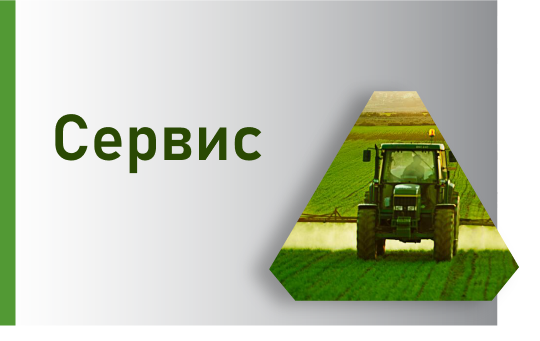
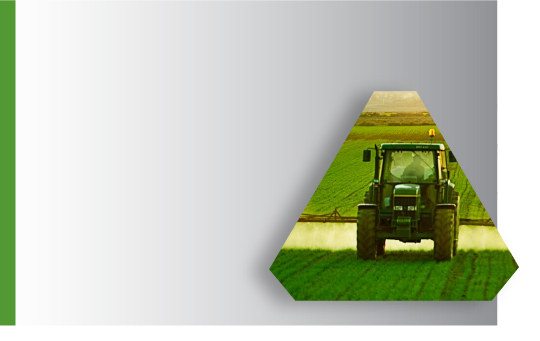
fix

Changed region(s): [[0.0889, 0.3226, 0.5037, 0.5279]]

diff --git a/index.html b/index.html
@@ -24,19 +24,22 @@
     
     <section class="hero">
         <div class="hero-container">
-<img src="/img/hero-img.jpg" alt="agro-perec" class="hero-img">
+<h3 class="hero-text">Ваш надежный партнер
+  в сельском хозяйстве!</h3>
+  <h3 class="hero-text-2">Официальный дистрибьютер компании Lidea</h3>
+  <a href="#" class="button-call">Заказать звонок</a>
         </div>
     </section>
-    <section class="cards">
-      <div class="header-cards">
-        <a href="#" class="header-cards-link"><h3>Главная / О компании</h3></a>
-      </div>
+    <section class="cards">      
         <div class="cards-wrap-all">
             <div class="cards-wrap">
+              <div class="header-cards">
+                <a href="#" class="header-cards-link"><h3>Главная / О компании</h3></a>
+              </div>
                 <ul class="cards-services">
                   <li class="cards-item">
                     <div class="img-wrap img-1"> 
-                        <a href="#" class="list-link">
+                        <a href="seeds.html" class="list-link">
                         <h3 class="header-item">Семена</h3>
                       </a>
                       <p class="text">Официальный дистрибьютер компании Lidea</p>
@@ -44,7 +47,7 @@
                   </li>
                   <li class="cards-item">
                     <div class="img-wrap img-2"> 
-                      <a href="#" class="list-link">
+                      <a href="deff.html" class="list-link">
                         <h3 class="header-item">Средства Защиты Растений</h3>
                       </a>
                       <p class="text">Ведущих мировых компаний</p>
@@ -52,14 +55,14 @@
                   </li>
                   <li class="cards-item">
                     <div class="img-wrap img-3"> 
-                      <a href="#" class="list-link">
+                      <a href="bio.html" class="list-link">
                         <h3 class="header-item">Микроудобрения и Био-препараты </h3>
                       </a>                      
                     </div>
                   </li>
                   <li class="cards-item">
                     <div class="img-wrap img-4"> 
-                      <a href="#" class="list-link">
+                      <a href="service.html" class="list-link">
                         <h3 class="header-item">Сервис</h3>
                       </a>                      
                     </div>

diff --git a/service.html b/service.html
@@ -3,7 +3,7 @@
 <head>
     <meta charset="UTF-8">
     <meta name="viewport" content="width=device-width, initial-scale=1.0">
-    <title>СЕРВИС</title>
+    <title>СЕМЕНА</title>
     <link rel="preconnect" href="https://fonts.googleapis.com">
     <link rel="preconnect" href="https://fonts.gstatic.com" crossorigin>
     <link href="https://fonts.googleapis.com/css2?family=Roboto:ital,wght@0,100;0,300;0,400;0,500;1,100;1,300;1,400&display=swap" rel="stylesheet">
@@ -31,42 +31,7 @@
       <div class="header-cards">
         <a href="#" class="header-cards-link"><h3>Главная / О компании</h3></a>
       </div>
-        <div class="cards-wrap-all">
-            <div class="cards-wrap">
-                <ul class="cards-services">
-                  <li class="cards-item">
-                    <div class="img-wrap img-1"> 
-                        <a href="#" class="list-link">
-                        <h3 class="header-item">Семена</h3>
-                      </a>
-                      <p class="text">Официальный дистрибьютер компании Lidea</p>
-                    </div>
-                  </li>
-                  <li class="cards-item">
-                    <div class="img-wrap img-2"> 
-                      <a href="#" class="list-link">
-                        <h3 class="header-item">Средства Защиты Растений</h3>
-                      </a>
-                      <p class="text">Ведущих мировых компаний</p>
-                    </div>
-                  </li>
-                  <li class="cards-item">
-                    <div class="img-wrap img-3"> 
-                      <a href="#" class="list-link">
-                        <h3 class="header-item">Микроудобрения и Био-препараты </h3>
-                      </a>                      
-                    </div>
-                  </li>
-                  <li class="cards-item">
-                    <div class="img-wrap img-4"> 
-                      <a href="#" class="list-link">
-                        <h3 class="header-item">Сервис</h3>
-                      </a>                      
-                    </div>
-                  </li>
-                </ul>
-            </div>
-
+        
         </div>
     </section>
     <footer class="footer">

diff --git a/css/style.css b/css/style.css
@@ -22,8 +22,9 @@ img {
 }
 
 .container-m {
-  max-width: 1900px;
+  max-width: 99%;
   padding: 5px;
+  margin: 0 auto;
 }
 
 .header-top {
@@ -47,6 +48,21 @@ img {
   background-position: -13px 6px;
 }
 
+.button-call {
+    padding: 10px 10px 10px 10px;
+    
+    display: block;
+    max-width: 160px;
+    border: 1px solid orange;
+    border-radius: 10px;
+    color: orange;
+    background-color: white;
+    cursor: pointer;
+    text-align: center;
+
+}
+
+
 .footer {
   background-color: black;
 }
@@ -56,13 +72,18 @@ img {
 }
 
 .hero-container {
+  background-image: url(../img-2/hero-man.jpg);
+  background-repeat: no-repeat;
+  min-width: 100%;
+  min-height: 500px;
   margin-bottom: 150px;
+  padding: 270px 265px 75px 900px;
 }
 
 .header-cards {
-  margin: 5px 245px;
+  margin: 0 auto;
   border-bottom: 2px solid black;
-  width: 1050px;
+  min-width: 1050px;
 }
 
 .cards-services {
@@ -74,7 +95,9 @@ img {
 }
 
 .cards-wrap-all {
-  padding-left: 200px;
+  display: flex;
+  align-items: center;
+  justify-content: center;
 }
 
 .cards-wrap {
@@ -85,20 +108,18 @@ img {
   border-radius: 10px;
   display: flex;
   flex-direction: column;
-  justify-content: flex-start;
-  align-items: flex-start;
+  
   max-width: 540px;
   max-height: 340px;
-  padding-top: 40px;
-  padding-left: 40px;
-
+  padding: 70px 140px 95px 30px;
+ 
 }
 
 
 
 
 .img-1 {
-  background-image:  url(../img/seeds-1.png);
+  background-image:  url(../img-2/seeds.png);
   width: 540px;
   height: 340px;
   background-repeat: no-repeat;
@@ -107,7 +128,7 @@ img {
 }
 
 .img-2 {
-  background-image:  url(../img/def-2.png);
+  background-image:  url(../img-2/deff.png);
   width: 540px;
   height: 340px;
   background-repeat: no-repeat;
@@ -116,7 +137,7 @@ img {
 }
 
 .img-3 {
-  background-image:  url(../img/mikro-3.png);
+  background-image:  url(../img-2/micro.png);
   width: 540px;
   height: 340px;
   background-repeat: no-repeat;
@@ -125,7 +146,7 @@ img {
 }
 
 .img-4 {
-  background-image:  url(../img/serv-4.png);
+  background-image:  url(../img-2/service.png);
   width: 540px;
   height: 340px;
   background-repeat: no-repeat;
